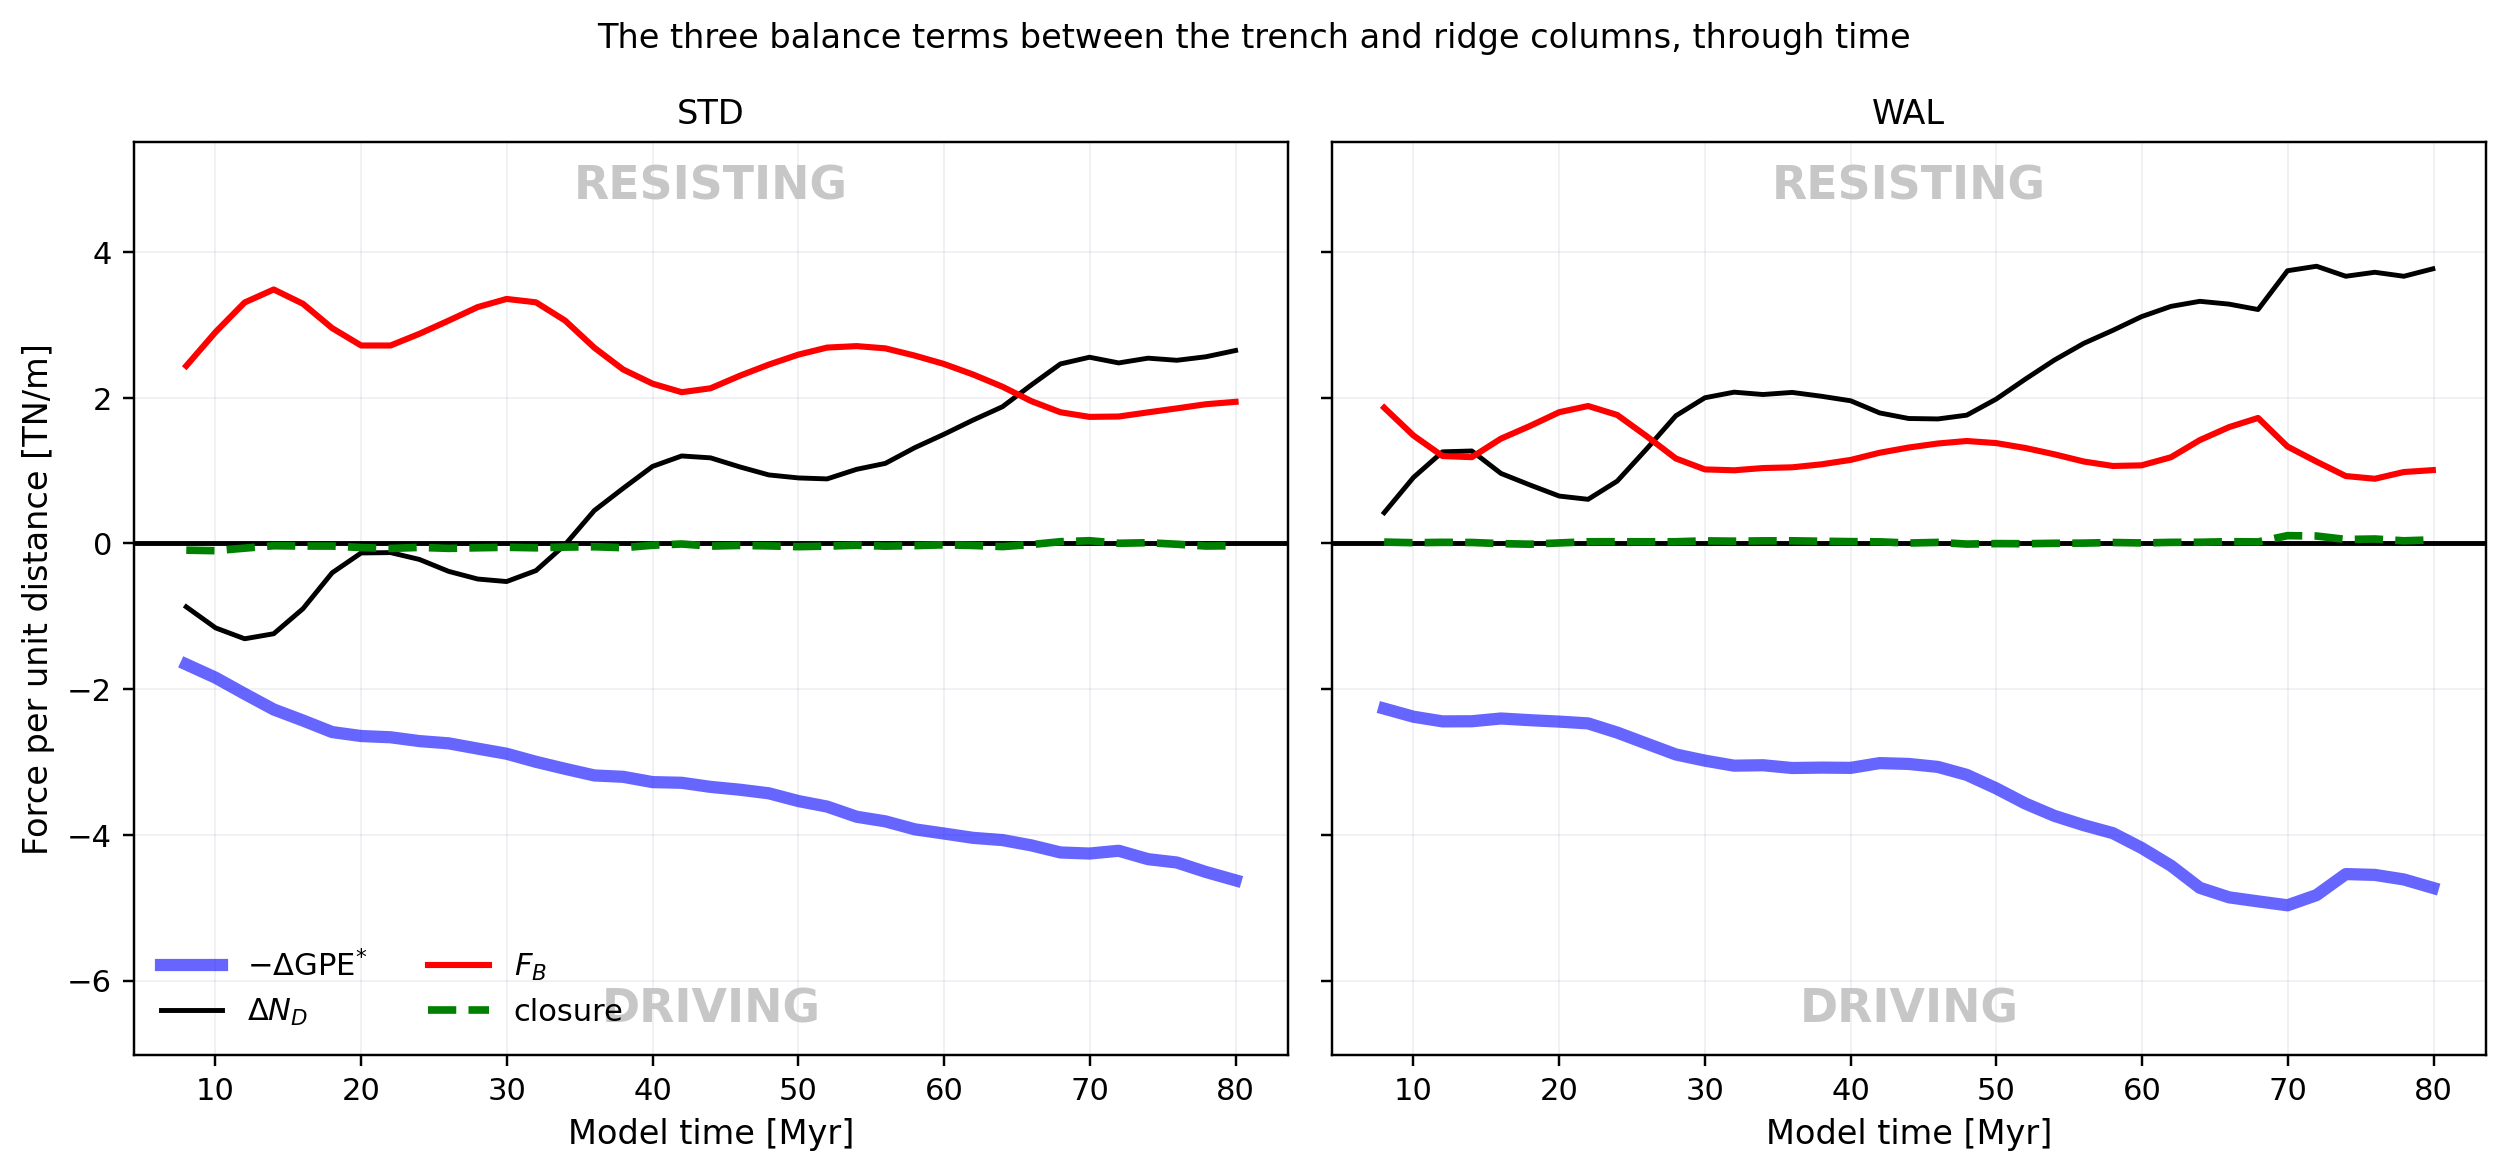
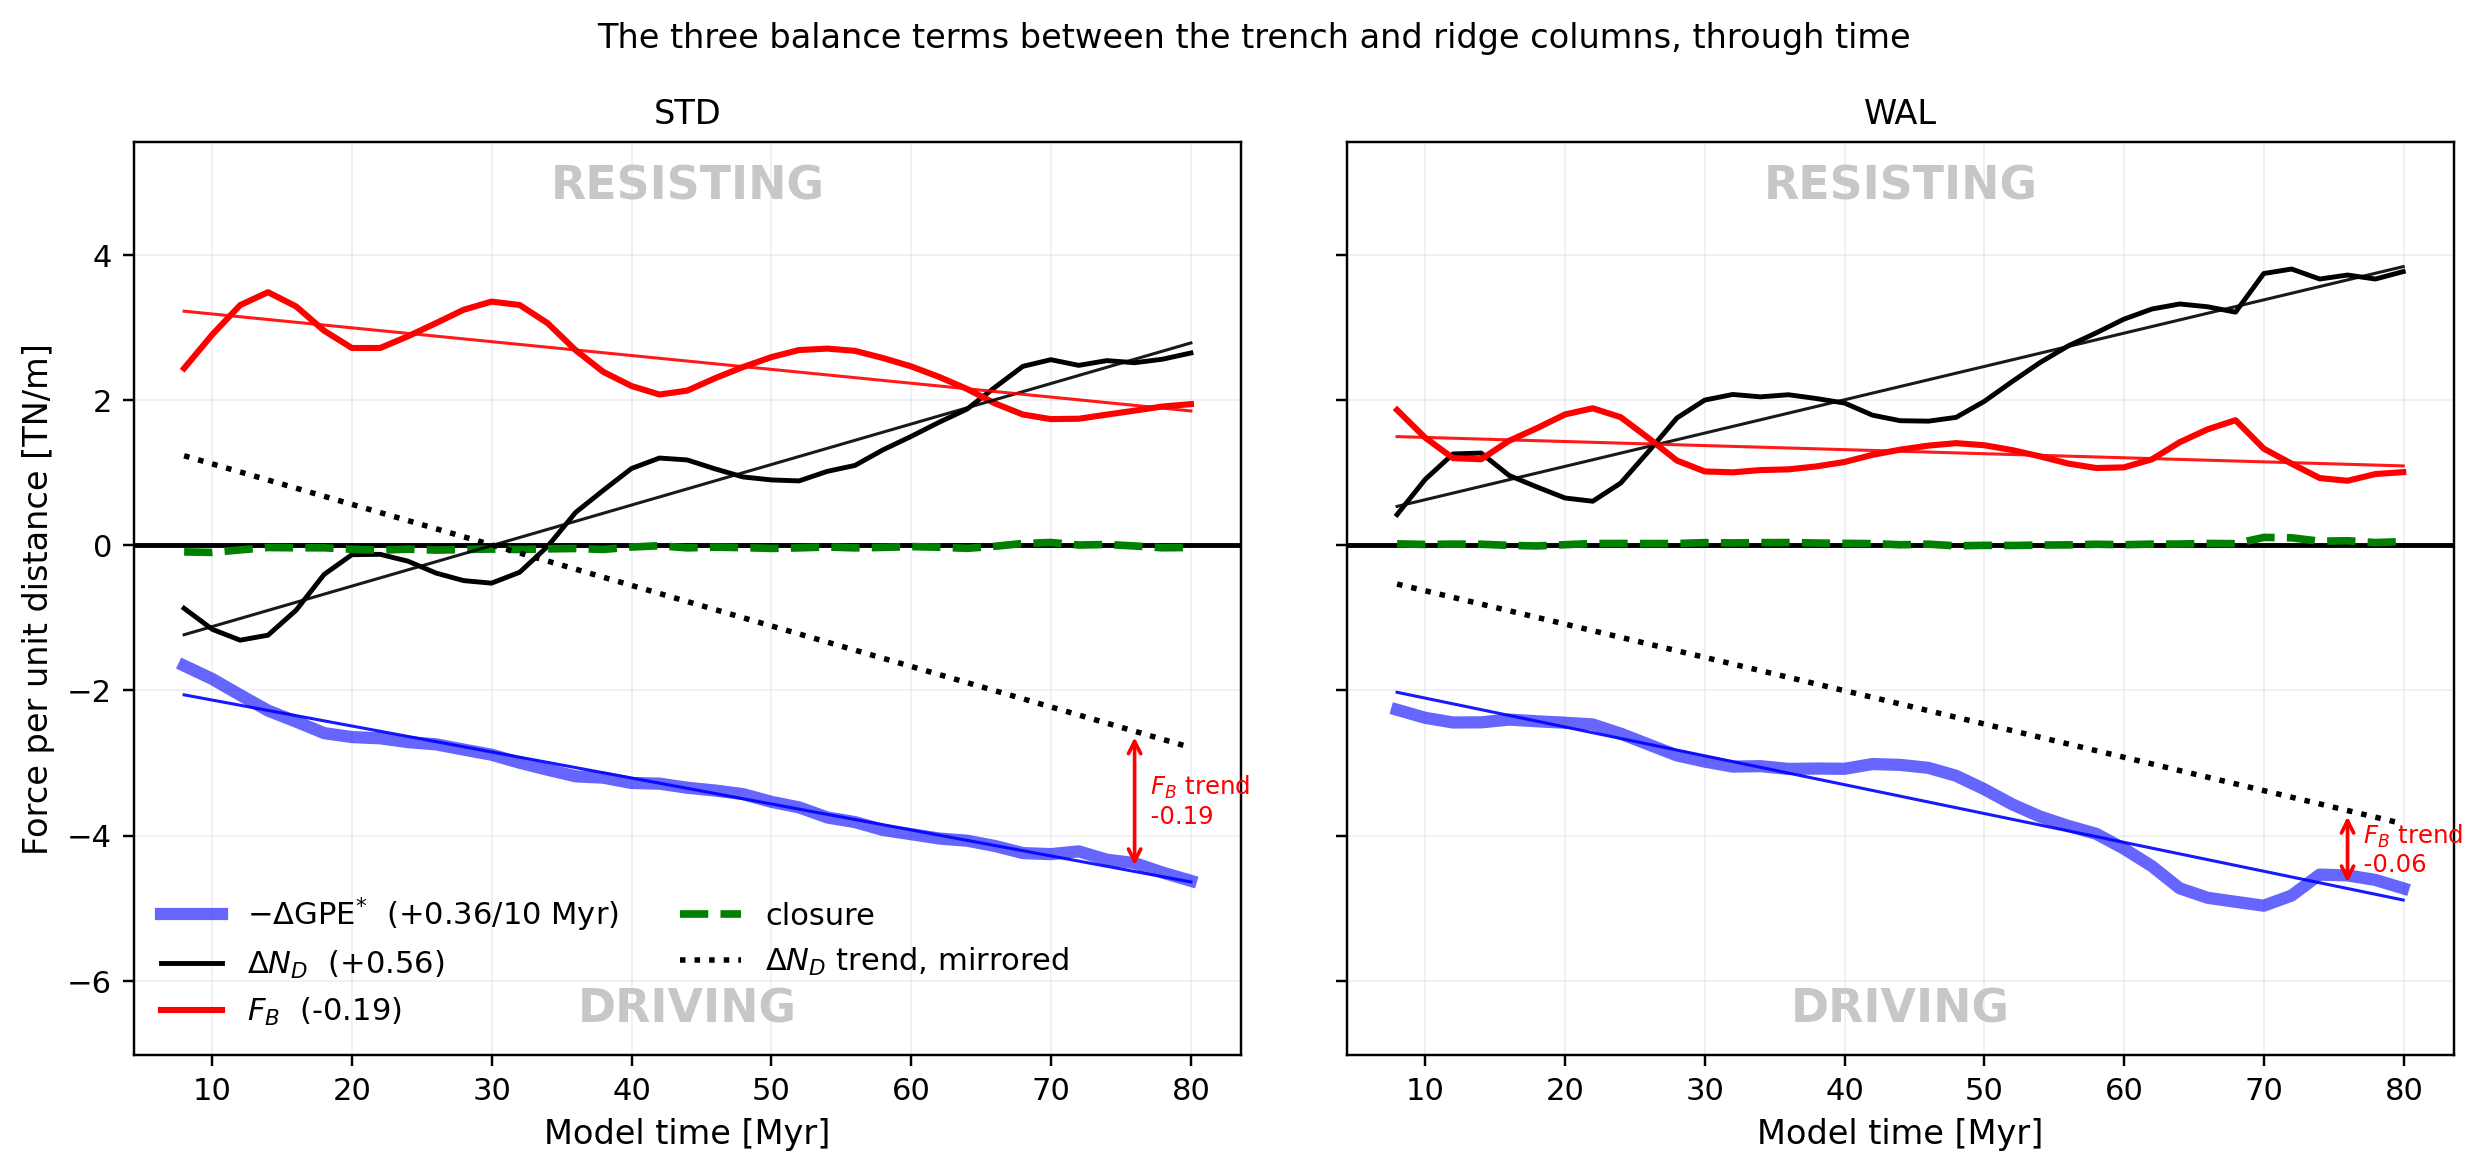
fig_budget_time: secular trends, with dN_D mirrored against the drive
Dan, 2026-09-22. Adds a linear fit through each of the three balance
terms, plus the dN_D trend MIRRORED into the driving half so its slope
can be laid directly against the GPE* slope. The vertical gap between
those two lines is the F_B trend, marked.

    STD  dGPE* +0.358 = dN_D +0.559 + F_B -0.191  (sum +0.368)
    WAL  dGPE* +0.398 = dN_D +0.459 + F_B -0.056  (sum +0.403)

TN/m per 10 Myr. The slope budget closes to 2.5 % / 1.3 %, so the
mismatch between the mirrored dN_D line and the GPE* line is physical,
not fitting error: dN_D grows FASTER than the drive because F_B is
shrinking, and it has to make up the difference.

WHY F_B SHRINKS -- Dan's correction, and it is not what I assumed. It is
not the velocity falling, it is the plate getting shorter. Traction per
unit length is flat: F_B/L trends +0.1 % (STD) / +1.0 % (WAL) per 10 Myr
while L itself falls 7.8 % / 5.3 %, so geometry accounts for 104 % /
123 % of the F_B decline. WAL settles it -- velocity there has no trend
at all (-0.5 % per 10 Myr) and F_B still declines.

So the secular picture is: the drive grows thermally; basal drag shrinks
because the trench has consumed 43 % / 34 % of the plate; and dN_D
absorbs both, which is why it is the only term with a trend significant
in both models (p = 0.011 / 0.032, autocorrelation-adjusted).

Slopes moved into the legend labels rather than a floating text block,
which collided with the legend in the STD panel.

diff --git a/scripts/fig_budget_time.py b/scripts/fig_budget_time.py
@@ -79,12 +79,41 @@ def main():
         m = q['t'] >= T_MIN_MYR
         t = q['t'][m]
         ax.axhline(0, color='k', lw=1.6)
+        sl0 = lambda y: np.polyfit(t, y, 1)[0] * 10          # per 10 Myr
+        _g, _n, _f = (q['d_gpe'][m] * 1e-12, q['d_nd'][m] * 1e-12,
+                      q['f_b'][m] * 1e-12)
         ax.plot(t, q['gpe_term'][m] * 1e-12, color='b', lw=4, alpha=0.6,
-                label=r'$-\Delta\mathrm{GPE}^{*}$')
-        ax.plot(t, q['d_nd'][m] * 1e-12, color='k', lw=1.6, label=r'$\Delta N_D$')
-        ax.plot(t, q['f_b'][m] * 1e-12, color='red', lw=2, label=r'$F_B$')
+                label=r'$-\Delta\mathrm{GPE}^{*}$'
+                      f'  ({sl0(_g):+.2f}/10 Myr)')
+        ax.plot(t, q['d_nd'][m] * 1e-12, color='k', lw=1.6,
+                label=r'$\Delta N_D$' + f'  ({sl0(_n):+.2f})')
+        ax.plot(t, q['f_b'][m] * 1e-12, color='red', lw=2,
+                label=r'$F_B$' + f'  ({sl0(_f):+.2f})')
         ax.plot(t, q['closure'][m] * 1e-12, color='g', ls='--', lw=2.5,
                 label='closure')
+        # --- SECULAR TRENDS (Dan, 2026-09-22) ---------------------------
+        # A linear fit through each term, plus the Delta N_D trend
+        # MIRRORED into the driving half so its slope can be laid against
+        # the GPE* slope by eye. The vertical gap between those two lines
+        # IS the F_B trend: dGPE* = dN_D + F_B must hold for the slopes as
+        # well as the values, and it does, to 1-3 %.
+        fit = lambda y: np.polyval(np.polyfit(t, y, 1), t)
+        sl = lambda y: np.polyfit(t, y, 1)[0] * 10          # per 10 Myr
+        gpe_t, nd_t, fb_t = (q['d_gpe'][m] * 1e-12, q['d_nd'][m] * 1e-12,
+                             q['f_b'][m] * 1e-12)
+        ax.plot(t, -fit(gpe_t), color='b', ls='-', lw=1.0, alpha=0.9)
+        ax.plot(t, fit(nd_t), color='k', ls='-', lw=1.0, alpha=0.9)
+        ax.plot(t, fit(fb_t), color='red', ls='-', lw=1.0, alpha=0.9)
+        ax.plot(t, -fit(nd_t), color='k', ls=':', lw=1.8,
+                label=r'$\Delta N_D$ trend, mirrored')
+        ax.annotate('', xy=(t[-3], -fit(nd_t)[-3]), xytext=(t[-3], -fit(gpe_t)[-3]),
+                    arrowprops=dict(arrowstyle='<->', color='red', lw=1.2))
+        ax.text(t[-3], 0.5 * (-fit(nd_t)[-3] - fit(gpe_t)[-3]),
+                f'  $F_B$ trend\n  {sl(fb_t):+.2f}', color='red', fontsize=8,
+                va='center', ha='left')
+        print(f'   {key} slopes/10 Myr: dGPE* {sl(gpe_t):+.3f} = dN_D '
+              f'{sl(nd_t):+.3f} + F_B {sl(fb_t):+.3f} '
+              f'(sum {sl(nd_t)+sl(fb_t):+.3f})')
         ax.set_title(key, fontsize=11)
         ax.set_xlabel('Model time [Myr]', fontsize=11)
         ax.grid(alpha=0.25, color=C_RULE, lw=0.6)
